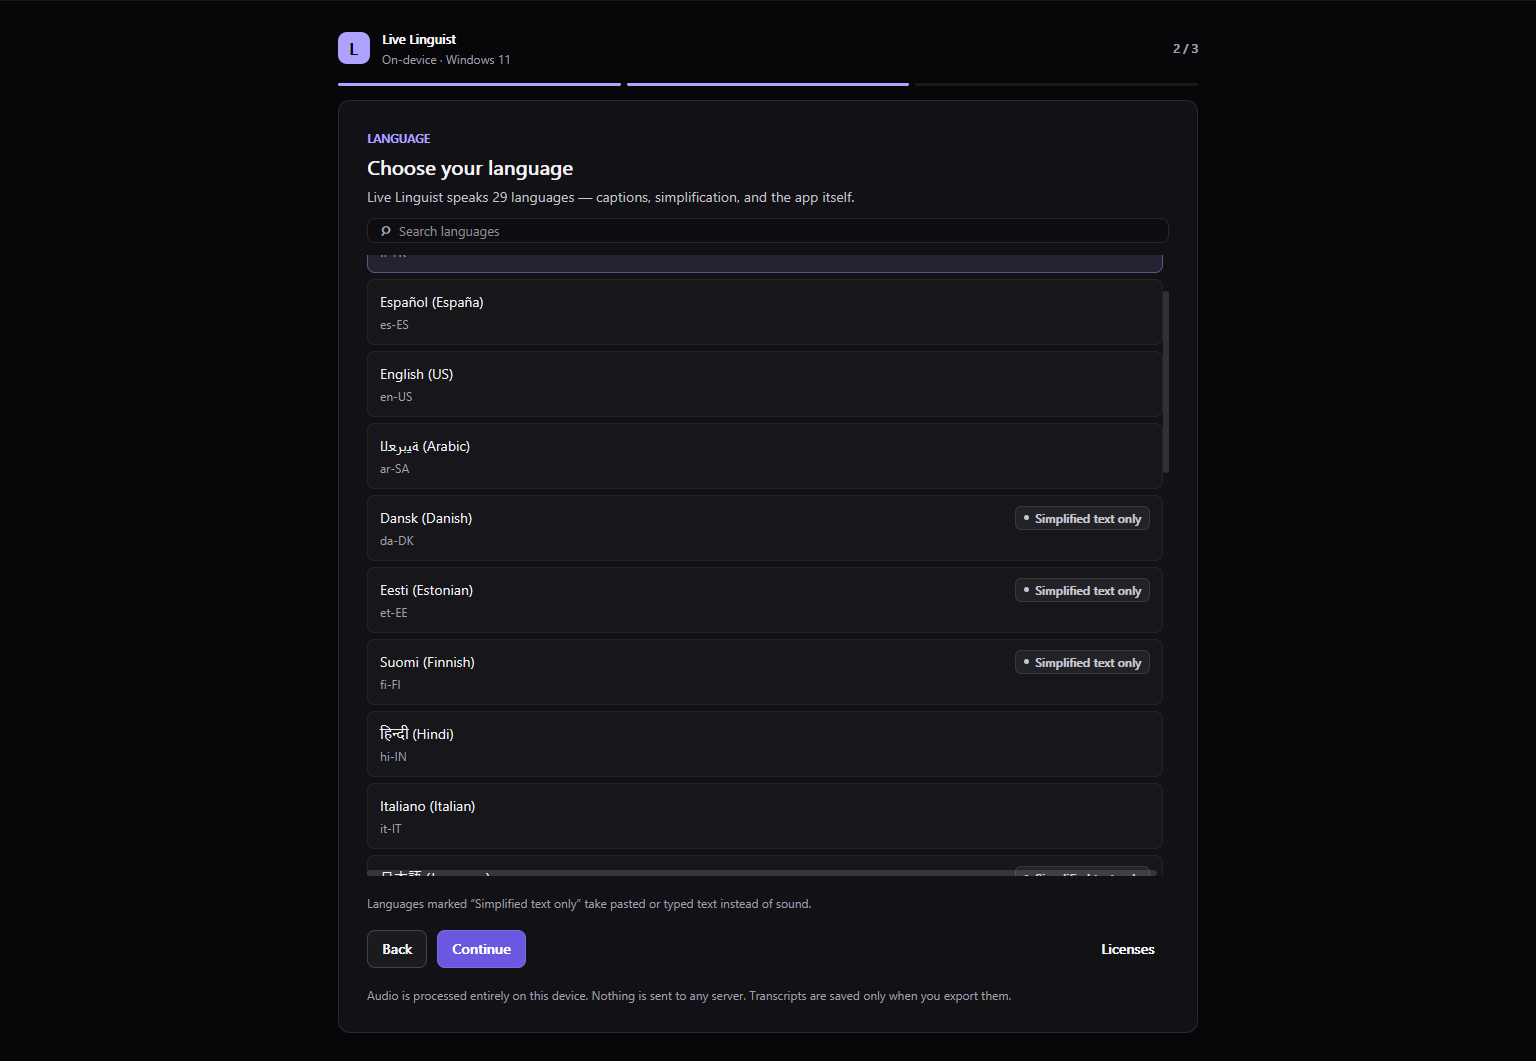
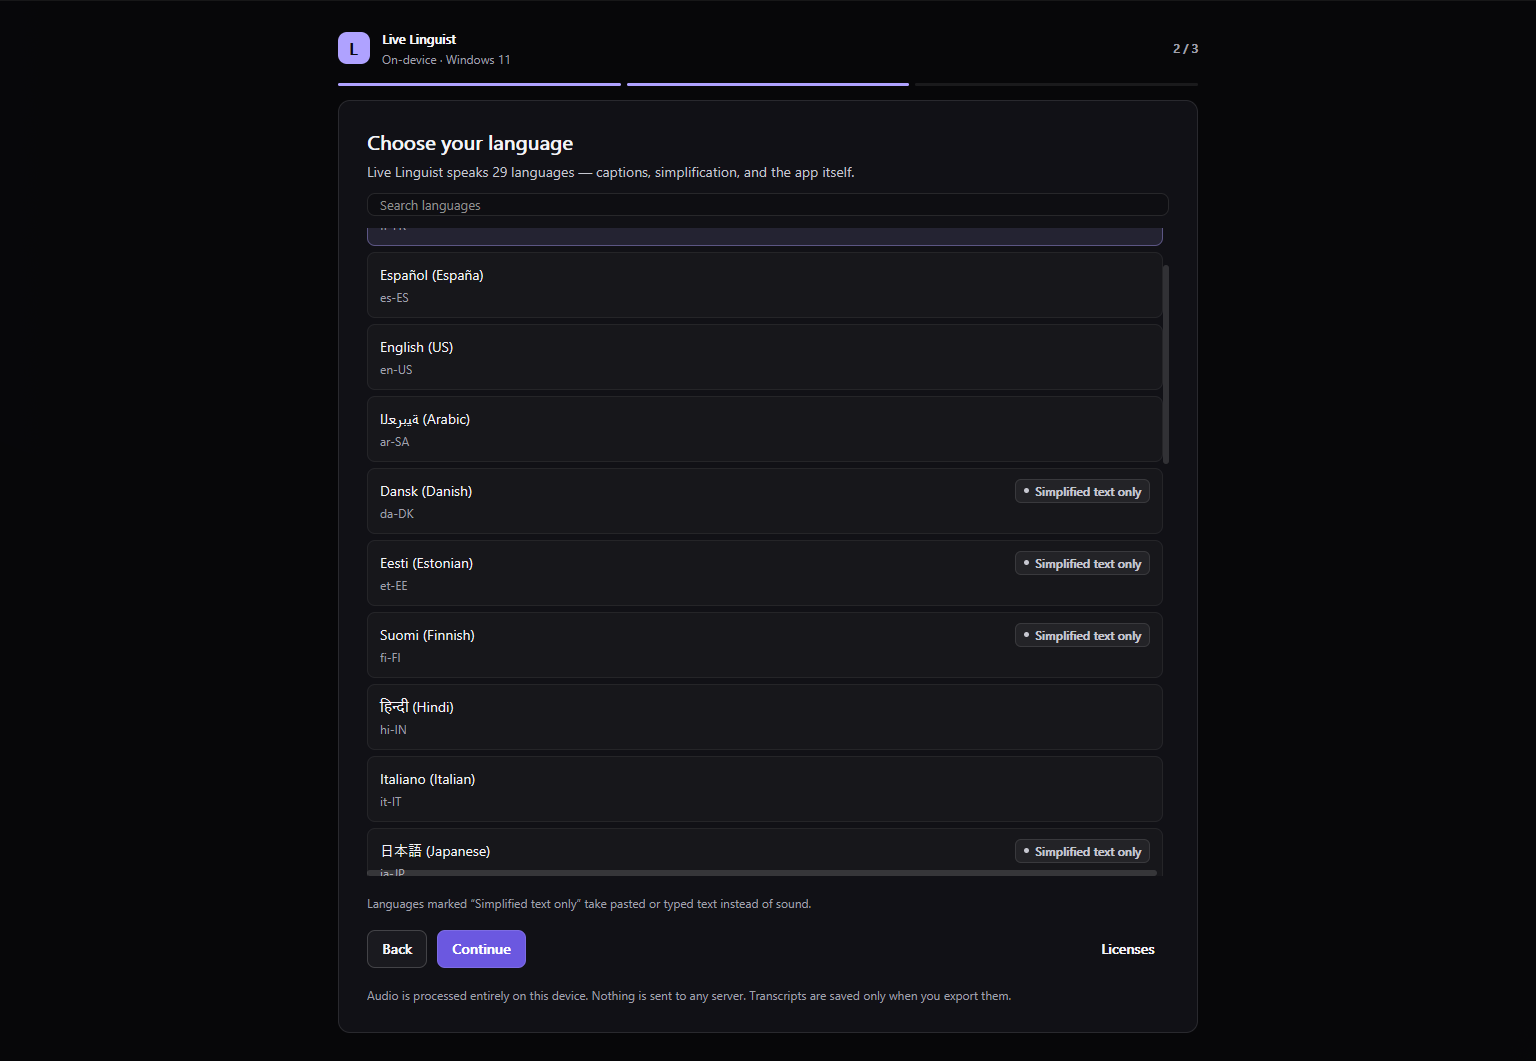
ui: meet the craft floor on the new system
Remove the kicker above every heading, drop unicode glyph icons from search and model rows, cap caption rows at a readable measure, and name the overlay control 'Console window'. Screenshots and a11y counts refreshed.

diff --git a/ui/src/aurora/components.tsx b/ui/src/aurora/components.tsx
@@ -94,12 +94,10 @@ export function BrandMark({ size = 34 }: { size?: number }) {
 }
 
 export function SectionHeader({
-  eyebrow,
   title,
   subtitle,
   trailing,
 }: {
-  eyebrow?: string;
   title: string;
   subtitle?: string;
   trailing?: ReactNode;
@@ -107,11 +105,6 @@ export function SectionHeader({
   return (
     <div style={{ display: "flex", flexDirection: "row", alignItems: "flex-end", gap: 16 }}>
       <div style={{ display: "flex", flexDirection: "column", gap: 6, flexGrow: 1, minWidth: 0 }}>
-        {eyebrow ? (
-          <text style={{ ...textStyle(type.meta, colors.accent, 700) }}>
-            {eyebrow.toUpperCase()}
-          </text>
-        ) : null}
         <text style={{ ...textStyle(type.title, colors.text, 600), lineHeight: 26 }}>{title}</text>
         {subtitle ? (
           <text style={{ ...textStyle(type.body, colors.muted), lineHeight: 20 }}>{subtitle}</text>
@@ -125,14 +118,12 @@ export function SectionHeader({
 /** Top bar for a full-screen page: back affordance, title, trailing controls. */
 export function PageHeader({
   backLabel,
-  eyebrow,
   title,
   subtitle,
   onBack,
   trailing,
 }: {
   backLabel?: string;
-  eyebrow?: string;
   title: string;
   subtitle?: string;
   onBack?: () => void;
@@ -142,11 +133,6 @@ export function PageHeader({
     <div style={{ display: "flex", flexDirection: "row", alignItems: "center", gap: 14 }}>
       {onBack ? <Button label={backLabel ?? "Back"} kind="secondary" onClick={onBack} /> : null}
       <div style={{ display: "flex", flexDirection: "column", gap: 3, flexGrow: 1, minWidth: 0 }}>
-        {eyebrow ? (
-          <text style={{ ...textStyle(type.meta, colors.accent, 700) }}>
-            {eyebrow.toUpperCase()}
-          </text>
-        ) : null}
         <text style={{ ...textStyle(type.page, colors.text, 600), lineHeight: 34 }}>{title}</text>
         {subtitle ? <text style={textStyle(type.body, colors.muted)}>{subtitle}</text> : null}
       </div>
@@ -574,6 +560,9 @@ export function CaptionRow({
         flexDirection: "column",
         gap: compact ? 4 : 8,
         padding: compact ? 10 : 14,
+        width: "100%",
+        maxWidth: 960,
+        alignSelf: "center",
         borderRadius: 10,
         backgroundColor: "#FFFFFF07",
         borderWidth: 1,

diff --git a/ui/src/screens/Settings.tsx b/ui/src/screens/Settings.tsx
@@ -350,20 +350,6 @@ function ModelCard({
         borderColor: colors.border,
       }}
     >
-      <div
-        style={{
-          width: 34,
-          height: 34,
-          borderRadius: 8,
-          backgroundColor: ready ? colors.mintSoft : "#FFFFFF0A",
-          display: "flex",
-          alignItems: "center",
-          justifyContent: "center",
-          flexShrink: 0,
-        }}
-      >
-        <text style={textStyle(type.meta, ready ? colors.mint : colors.faint, 800)}>◇</text>
-      </div>
       <div style={{ display: "flex", flexDirection: "column", gap: 2, flexGrow: 1, minWidth: 0 }}>
         <text style={textStyle(type.body, colors.text, 600)}>{name}</text>
         <text style={textStyle(type.meta, colors.faint)}>{detail}</text>

diff --git a/ui/src/aurora/LanguagePicker.tsx b/ui/src/aurora/LanguagePicker.tsx
@@ -34,7 +34,6 @@ export function LanguagePicker({
     <div style={{ display: "flex", flexDirection: "column", gap: 12, flexGrow: 1, minHeight: 0 }}>
       {showHeader ? (
         <SectionHeader
-          eyebrow={t(locale, "LANGUAGE")}
           title={t(locale, "Choose your language")}
           subtitle={t(
             locale,
@@ -58,7 +57,6 @@ export function LanguagePicker({
           borderColor: colors.border,
         }}
       >
-        <text style={textStyle(type.body, colors.faint, 700)}>⌕</text>
         <input
           value={query}
           placeholder={t(locale, "Search languages")}

diff --git a/ui/src/screens/Overlay.tsx b/ui/src/screens/Overlay.tsx
@@ -83,7 +83,7 @@ export function OverlayScreen({
             style={{ height: 28, paddingLeft: 8, paddingRight: 8 }}
           />
           <Button
-            label={t(locale, "Console")}
+            label={t(locale, "Console window")}
             kind="ghost"
             onClick={onConsole}
             style={{ height: 28, paddingLeft: 8, paddingRight: 8 }}

diff --git a/ui/src/dev/DevPanel.tsx b/ui/src/dev/DevPanel.tsx
@@ -60,7 +60,6 @@ export function DevPanel({
   return (
     <div style={{ display: "flex", flexDirection: "column", gap: 14 }}>
       <SectionHeader
-        eyebrow={t(locale, "DEVELOPER")}
         title={t(locale, "Runtime health")}
         subtitle={t(
           locale,

diff --git a/docs/qa/2026-11-25-ui-clarity.md b/docs/qa/2026-11-25-ui-clarity.md
@@ -46,6 +46,10 @@ on switches, missing `tablist` role, and slider min/max/now attributes.
 Opening Settings or Licenses from the overlay now restores a console window
 first instead of rendering the page into a 780x250 overlay.
 
+Craft pass: every eyebrow/kicker above a heading is gone (the heading carries
+itself), the search and model unicode glyphs are gone, and caption rows cap at
+960px so a long sentence stays inside a readable measure on a wide window.
+
 ## Evidence
 
 ```text
@@ -61,13 +65,13 @@ A11y counts from the capture run (unlabeled controls = 0 in every scenario):
 | Scenario | Nodes | Roles |
 |---|---|---|
 | onboarding-welcome | 19 | Label, Button |
-| onboarding-language | 122 | Label 88, Button 32, TextInput |
+| onboarding-language | 120 | Label 86, Button 32, TextInput |
 | onboarding-models | 27 | Label 20, Button 4, ProgressIndicator 2 |
 | console | 38 | Label 25, Button 7, Tab 2, TabList, Switch 2 |
 | live | 64 | Label 43, Button 13, Tab 5, TabList 2 |
 | overlay | 20 | Label 12, Button 6, Group |
 | settings | 40 | Label 26, Button 3, Tab 4, TabList, Slider, Switch 4 |
-| settings-developer | 90 | Label 65, Button 17, Tab 4, TabList, Switch 2 |
+| settings-developer | 89 | Label 64, Button 17, Tab 4, TabList, Switch 2 |
 | summary | 66 | Label 51, Button 14 |
 | licenses | 53 | Label 51, Button |
 
